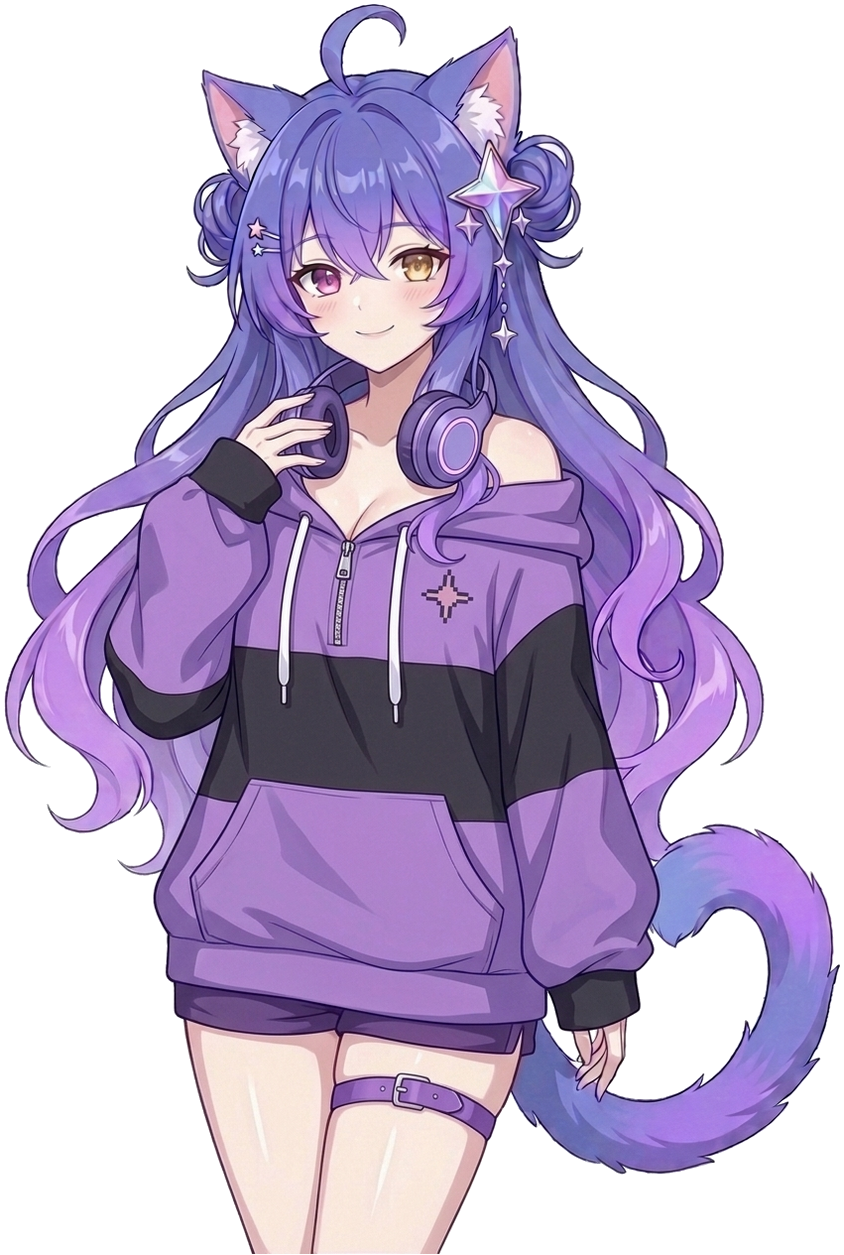
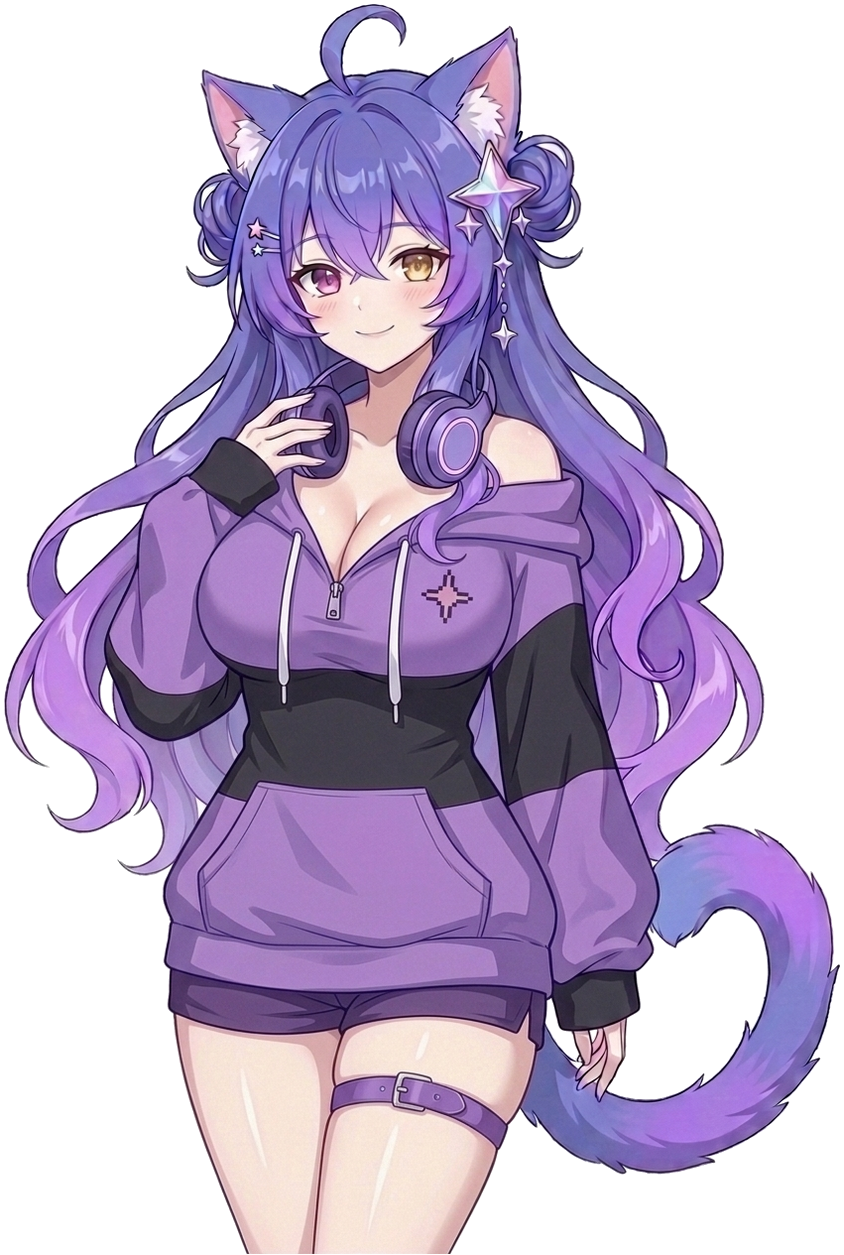
feat: 新增四套参考穿搭并精修丝袜袜口与柔和勒肉感（共 16 套立绘）

Changed region(s): [[0.1848, 0.3729, 0.6777, 1.0], [0.3697, 0.9012, 0.4005, 0.9323], [0.0, 0.5594, 0.0308, 0.5904]]

diff --git a/README.md b/README.md
@@ -4,7 +4,7 @@
   <p><strong>专为 Antigravity Desktop 打造的二次元紫韵主题美化与 WebGL 动态立绘插件</strong></p>
 
   <blockquote>
-    警告：检测到你的桌面长期被性冷淡黑灰统治，代码快乐即将跌破警戒线！装上 <strong>Antigravity Theme Studio</strong>，立刻在屏幕右下角召唤“成年版哈基米”担任首席气氛组长——白天柔雾浅紫元气监工，入夜暮紫慵懒陪肝，还能随心切换兔女郎、JK 水手服、雪纺黑丝御姐、极客卫衣、新中式旗袍、猫娘女仆与占星魔女等 12 套穿搭和 10 款高萌表情镇压满屏报错。记住：二次元的事，怎么能叫摸鱼呢？
+    警告：检测到你的桌面长期被性冷淡黑灰统治，代码快乐即将跌破警戒线！装上 <strong>Antigravity Theme Studio</strong>，立刻在屏幕右下角召唤“成年版哈基米”担任首席气氛组长——白天柔雾浅紫元气监工，入夜暮紫慵懒陪肝，还能随心切换兔女郎、JK 水手服、雪纺黑丝御姐、极客卫衣、新中式旗袍、猫娘女仆与占星魔女等 16 套穿搭和 10 款高萌表情镇压满屏报错。记住：二次元的事，怎么能叫摸鱼呢？
   </blockquote>
 
   <p>
@@ -39,7 +39,7 @@
 </table>
 
 <details>
-<summary>👗 <strong>展开查看内置 12 套高清透明立绘穿搭（昼 / 夜自由混搭 · 全套通用 10 款表情）</strong></summary>
+<summary>👗 <strong>展开查看内置 16 套高清透明立绘穿搭（昼 / 夜自由混搭 · 全套通用 10 款表情）</strong></summary>
 <br />
 
 | 昼版 · 清新日常 | 夜版 · 暮紫慵懒 | 通用 · 白色花边兔女郎 | 通用 · 深紫 JK 水手服 |
@@ -54,10 +54,14 @@
 | :---: | :---: | :---: | :---: |
 | <img src="assets/hagemi_hoodie.png" alt="极客猫耳耳机卫衣立绘" width="165" /> | <img src="assets/hagemi_cheongsam.png" alt="紫蝶新中式改良旗袍立绘" width="165" /> | <img src="assets/hagemi_maid.png" alt="紫黑蕾丝猫娘女仆立绘" width="165" /> | <img src="assets/hagemi_witch.png" alt="星穹占星小魔女立绘" width="165" /> |
 
+| 通用 · 青空薄荷格裙 JK | 通用 · 紫韵挂脖包臀裙 | 通用 · 辣妹热裤猫娘女仆 | 通用 · 红领结黑格 JK |
+| :---: | :---: | :---: | :---: |
+| <img src="assets/hagemi_jk_mint.png" alt="青空薄荷格裙 JK 立绘" width="165" /> | <img src="assets/hagemi_violet_halter.png" alt="紫韵挂脖包臀裙立绘" width="165" /> | <img src="assets/hagemi_maid_shorts.png" alt="辣妹热裤猫娘女仆立绘" width="165" /> | <img src="assets/hagemi_jk_crimson.png" alt="红领结黑格 JK 立绘" width="165" /> |
+
 </details>
 
 <details>
-<summary>🎭 <strong>展开查看内置 10 款二次元表情差分（通用全部 12 套穿搭 · 搓头或掷骰即可变脸）</strong></summary>
+<summary>🎭 <strong>展开查看内置 10 款二次元表情差分（通用全部 16 套穿搭 · 搓头或掷骰即可变脸）</strong></summary>
 <br />
 
 <p align="center">
@@ -73,10 +77,10 @@
 | 模块 | 核心亮点 |
 | :--- | :--- |
 | **WebGL 2 动态交互立绘** | 升级 WebGL 2（自动回退 WebGL 1）与 Overscan 扩边视口：锁定五官不形变，支持**胸肩微呼吸 + 猫耳/兔耳分型轻颤 + 呆毛心情弹簧 + 猫尾外弧轻摇 + 轻歪头倾听**，点击立绘任意部位触发局部果冻弹跳，鼠标完全穿透不挡字与划词。 |
-| **表情混搭 & 搓头变脸** | 内置**元气招牌、俏皮 Wink、得意猫嘴、害羞脸红、困倦打盹、星星眼、爱心眼、委屈泪眼、鼓腮傲娇、晕乎蚊香眼** 10 款表情差分（`exprAnchor` 通用校准全部 12 套穿搭），支持着色器级**眼/嘴上下半脸混搭 + 渐进腮红 + 轻点头渐显**，搓头即可切换并固定。 |
+| **表情混搭 & 搓头变脸** | 内置**元气招牌、俏皮 Wink、得意猫嘴、害羞脸红、困倦打盹、星星眼、爱心眼、委屈泪眼、鼓腮傲娇、晕乎蚊香眼** 10 款表情差分（`exprAnchor` 通用校准全部 16 套穿搭），支持着色器级**眼/嘴上下半脸混搭 + 渐进腮红 + 轻点头渐显**，搓头即可切换并固定。 |
 | **全窗光影氛围共振** | 开启壁纸时自动采样环境主色为立绘增添柔和 **Rim Light 轮廓光**（无壁纸则随本地昼夜时段流转）；右鬓角星形发饰定期呼吸扫芒，换装支持 `340ms` 斜向星辉光幕转场。 |
 | **对话默契与静默伴侣** | 轻量只读本地遥测（不传文本、不弹气泡）：联动 AI 思考/完工报喜/等你拍板歪头提醒/多子代理 `smug` 闪现/报错修复与记忆压缩；支持打字节奏耳颤与挂机打盹被抓包秒坐直。 |
-| **12 套衣橱零卡顿热缓存** | 12 套穿搭端到端多图与 GPU 表达式纹理缓存，并由宿主后台解码，切皮肤与变脸全程零卡顿秒切换。 |
+| **16 套衣橱零卡顿热缓存** | 16 套穿搭端到端多图与 GPU 表达式纹理缓存，并由宿主后台解码，切皮肤与变脸全程零卡顿秒切换。 |
 | **自由构图与智能避让** | 支持缩放（`0.50x–1.60x`）、右边距/底边距微调、常规透明度、**水平镜像翻转**（着色器内羽化自适应）；展开右侧面板时平滑左移并淡出避让。 |
 | **昼夜双形态与 4 套预设** | 默认 `07:00–19:00` 柔雾浅紫昼版、`19:00–07:00` 柔和暮紫夜版，支持定时 / 跟随系统 / 手动锁定 / 一键还原，各预设色板独立微调互不串色。 |
 | **全窗自定义画布背景** | 一键选取本地图片作为整窗背景（`10%–100%` 透显度调节），搭配毛玻璃底部输入栏、可调圆角（`4–36px`）与代码高亮配色。 |
@@ -133,7 +137,7 @@
 </table>
 
 - **昼夜形态与预设**：切换定时 / 跟随系统 / 锁定昼夜 / 暂停还原，自定义起昼与起夜时间、默认昼夜预设。
-- **右侧立绘与动作**：一键开关显示、左移避让、呼吸微摆、点击弹跳、搓头变脸、灵动微动态、光影氛围、对话默契、镜像翻转；滑动调节常规/避让透明度、呼吸幅度、点击跳动范围、缩放与边距，在 12 套通用内置穿搭间自由混搭或一键点击「本地」导入自定义立绘，并通过下拉选单快速切换 10 种立绘表情。
+- **右侧立绘与动作**：一键开关显示、左移避让、呼吸微摆、点击弹跳、搓头变脸、灵动微动态、光影氛围、对话默契、镜像翻转；滑动调节常规/避让透明度、呼吸幅度、点击跳动范围、缩放与边距，在 16 套通用内置穿搭间自由混搭或一键点击「本地」导入自定义立绘，并通过下拉选单快速切换 10 种立绘表情。
 - **视觉效果与色板**：开启自定义背景与选图，调整背景透显度、输入框不透明度、圆角大小与字体；逐项微调画布/卡片/强调/文字/代码/边框颜色，支持 JSON 预设导出、导入与恢复默认。
 
 ### 2. 顶部快捷工具胶囊（3D 骰子随机换装 + 自定义背景）

diff --git a/skills/theme-studio/SKILL.md b/skills/theme-studio/SKILL.md
@@ -31,7 +31,7 @@ description: Control Antigravity Desktop theme customization (day/night auto-sch
   - 启用/暂停美化：`enable` / `disable`
 - **微调右侧哈基米立绘与表情**：
   `set-portrait --opacity 0.72 --auxAvoidOpacity 0.12 --idleMotion true --idleMotionAmp 0.75 --clickBounce true --clickBounceRange 0.45 --clickExpression true --microMotion true --ambientLight true --aiCompanion true --expression wink --flipX false --scale 1.0 --right 28 --bottom 92 --dayOutfit bunny --nightOutfit bunny`
-  （可选穿搭 `day` / `night` / `bunny` / `sailor` 深紫JK水手服 / `office` 淡紫雪纺黑丝御姐 / `street` 暗黑辣妹露脐装 / `sweater` 暖冬修身毛衣裙 / `coat` 冬日炭黑羊绒大衣 / `hoodie` 极客猫耳耳机卫衣 / `cheongsam` 紫蝶新中式改良旗袍 / `maid` 紫黑蕾丝猫娘女仆 / `witch` 星穹占星小魔女；可选表情 `default` 元气招牌 / `wink` 俏皮眨眼 / `smug` 得意猫嘴 / `shy` 害羞脸红 / `sleepy` 困倦打盹 / `starry` 星星眼 / `heart` 爱心眼 / `teary` 委屈泪眼 / `pout` 鼓腮傲娇 / `dizzy` 晕乎蚊香眼；`microMotion` 灵动微动态 / `ambientLight` 光影氛围 / `aiCompanion` 对话默契联动；如需关闭立绘：`set-portrait --enabled false`）
+  （可选穿搭 `day` / `night` / `bunny` / `sailor` 深紫JK水手服 / `office` 淡紫雪纺黑丝御姐 / `street` 暗黑辣妹露脐装 / `sweater` 暖冬修身毛衣裙 / `coat` 冬日炭黑羊绒大衣 / `hoodie` 极客猫耳耳机卫衣 / `cheongsam` 紫蝶新中式改良旗袍 / `maid` 紫黑蕾丝猫娘女仆 / `witch` 星穹占星小魔女 / `jk_mint` 青空薄荷格裙 JK / `violet_halter` 紫韵挂脖包臀裙 / `maid_shorts` 辣妹热裤猫娘女仆 / `jk_crimson` 红领结黑格 JK；可选表情 `default` 元气招牌 / `wink` 俏皮眨眼 / `smug` 得意猫嘴 / `shy` 害羞脸红 / `sleepy` 困倦打盹 / `starry` 星星眼 / `heart` 爱心眼 / `teary` 委屈泪眼 / `pout` 鼓腮傲娇 / `dizzy` 晕乎蚊香眼；`microMotion` 灵动微动态 / `ambientLight` 光影氛围 / `aiCompanion` 对话默契联动；如需关闭立绘：`set-portrait --enabled false`）
 - **调整毛玻璃与自定义底层背景**：
   `set-effects --glassOpacity 0.78 --radius 14 --customBgEnabled true --customBgImage "C:\\path\\to\\bg.jpg" --customBgOpacity 0.48 --font "..."`
 - **微调指定预设色板（每套预设独立互不影响）**：
